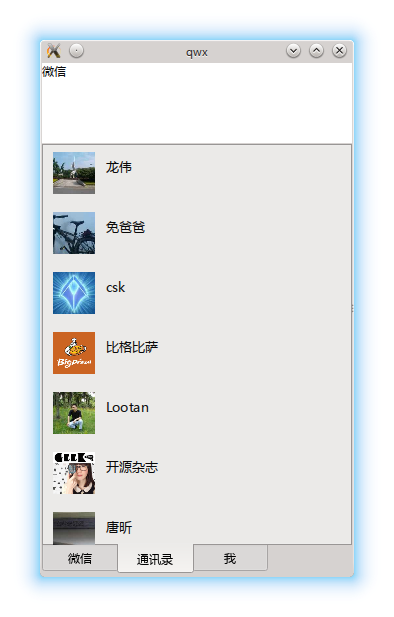
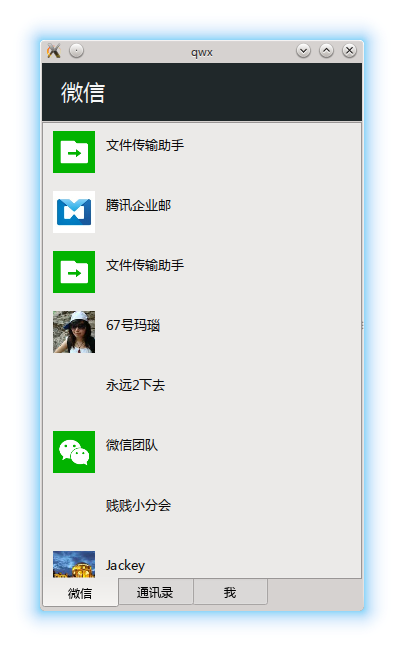
Update screenshot

Changed region(s): [[0.0914, 0.0616, 0.9137, 0.9546]]

diff --git a/README.md b/README.md
@@ -15,6 +15,8 @@ make
 
 ## 重度开发状态下的原型骨架截图
 
+![ScreenShot](https://raw.github.com/xiangzhai/qwx/master/doc/splash.png)
+
 ![ScreenShot](https://raw.github.com/xiangzhai/qwx/master/doc/login.png)
 
 ![ScreenShot](https://raw.github.com/xiangzhai/qwx/master/doc/chat.png)
